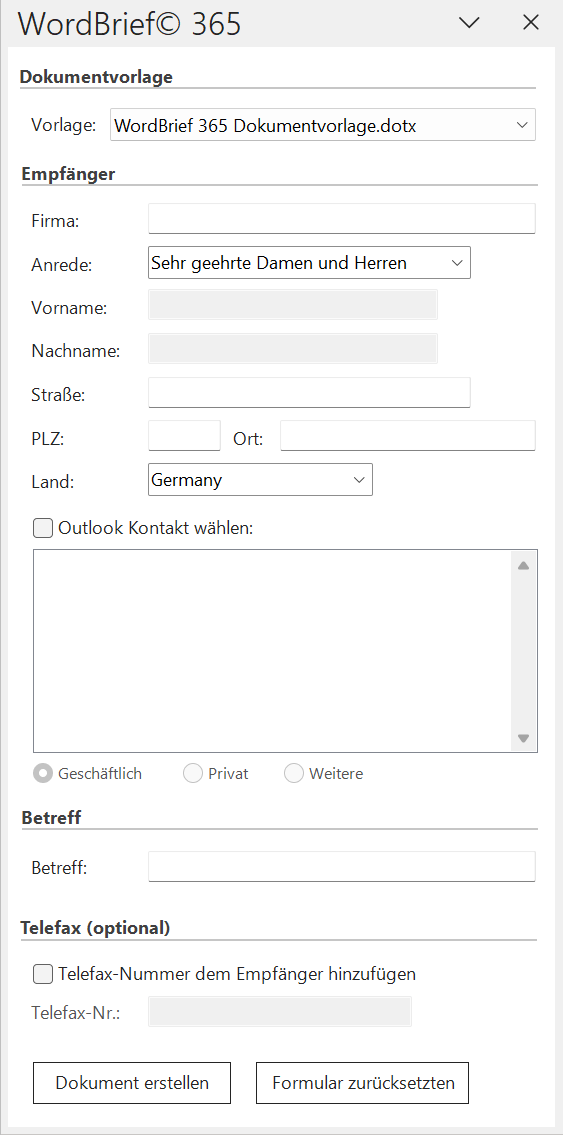
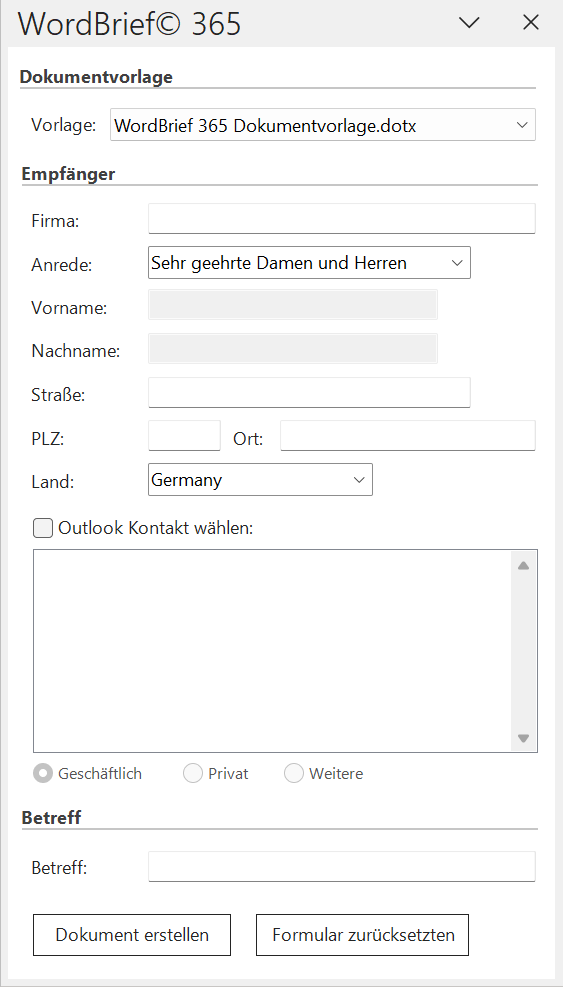
- WordBrief Grafiken aktualisiert

diff --git a/.astro/types.d.ts b/.astro/types.d.ts
@@ -1,2 +1,1 @@
 /// <reference types="astro/client" />
-/// <reference path="content.d.ts" />
